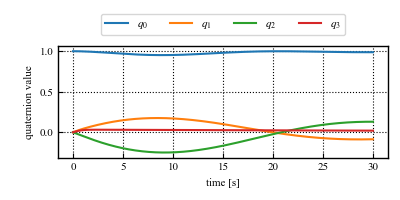
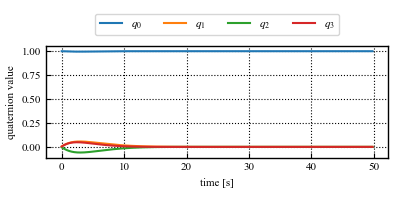
change reward

diff --git a/td3/train.py b/td3/train.py
@@ -103,22 +103,27 @@ def evaluate():
     actions = np.empty((0,3))
     param = np.empty((0,4))
 
-    dt = 0.01
-    simutime = 30
-    env.simutime = simutime
+    dt = 0.1
+    simutime = 50
+    # env.simutime = simutime
         
-    max_steps = int(simutime/dt) -1 # dt is 0.01
+    max_steps = int(simutime/dt) -1 # dt is 0.1
     alpha = 0.5
+    k_max = 5
+    alpha_max = 1
 
     th_e = np.array(env.inertia.flatten())
     with tqdm(range(max_steps),leave=False) as pbar:
         for i, ch in enumerate(pbar):
-            # if i==1 or i%100 ==0:
-            action = agent.get_action(state)
-            k = action[0]
-            D = np.diag([action[1],1,1,1,action[2],1,1,1,action[3]])
-            
-            W = state[-3:]
+            action = agent.get_action(state )
+            para_candi = (action + 1)/2
+            #----------------control law (Adaptive controller)-----------------------
+            k = 2.5#para_candi[0]*k_max
+            alpha = 0.8#para_candi[1]*alpha_max
+            d_tmp = [para_candi[i+2]*2500 +500 for i in range(len(para_candi)-2)]
+            D = np.diag([4e-4,1,1,1,5e-4,1,1,1,5.2e-4])#[1/d_tmp[0],1/d_tmp[1],1/d_tmp[2],1/d_tmp[3],1/d_tmp[4],1/d_tmp[5],1/d_tmp[6],1/d_tmp[7],1/d_tmp[8]])
+
+            W = state[8:11]
             x1 = state[1:4]
             x2 = alpha*x1 + W
             dqe = state[4:8]
@@ -129,6 +134,7 @@ def evaluate():
 
             dth = np.linalg.inv(D) @ Y.T @ x2
             th_e += env.dt*dth
+            env.est_th = [th_e[0],th_e[4],th_e[8]]/(env.max_multi*np.diag(env.inertia))
             next_error_state, reward, done, next_state, _ = env.step(input)
             # if i == 20/dt:
             #     env.inertia = env.inertia_comb
@@ -138,10 +144,10 @@ def evaluate():
             # env.render()        
             q=np.append(q,next_state[:4].reshape(1,-1),axis=0)
             qe=np.append(qe,next_error_state[:4].reshape(1,-1),axis=0)
-            w=np.append(w,next_error_state[-3:].reshape(1,-1),axis=0)
+            w=np.append(w,next_error_state[8:11].reshape(1,-1),axis=0)
             r += reward
             actions = np.append(actions, input.reshape(1,-1),axis=0)
-            param = np.append(param, action.reshape(1,-1),axis=0)
+            # param = np.append(param, action.reshape(1,-1),axis=0)
             state = next_error_state
 
     env.close()
@@ -242,29 +248,29 @@ def evaluate():
     plt.grid(True, color='k', linestyle='dotted', linewidth=0.8)
     # plt.savefig(curr_dir + "/results/td3_eval/plot_angle.png")
 
-    # plt.figure(figsize=(yoko,tate),dpi=100)
-    plt.subplot(234)
-    plt.plot(np.arange(max_steps)*dt, param[:,0],label = r"$\gain$")
-    plt.ylabel('k gain')
-    plt.xlabel(r'time [s]')
-    plt.tight_layout()
-    # plt.ylim(-20, 20)
-    plt.grid(True, color='k', linestyle='dotted', linewidth=0.8)
-    # plt.savefig(curr_dir + "/results/td3_eval/plot_k.png")
+    # # plt.figure(figsize=(yoko,tate),dpi=100)
+    # plt.subplot(234)
+    # plt.plot(np.arange(max_steps)*dt, param[:,0],label = r"$\gain$")
+    # plt.ylabel('k gain')
+    # plt.xlabel(r'time [s]')
+    # plt.tight_layout()
+    # # plt.ylim(-20, 20)
+    # plt.grid(True, color='k', linestyle='dotted', linewidth=0.8)
+    # # plt.savefig(curr_dir + "/results/td3_eval/plot_k.png")
 
-    # plt.figure(figsize=(yoko,tate),dpi=100)
-    plt.subplot(235)
-    plt.plot(np.arange(max_steps)*dt, parm[:,1],label = r"$D_{1}$")
-    plt.plot(np.arange(max_steps)*dt, param[:,2],label = r"$D_{2}$")
-    plt.plot(np.arange(max_steps)*dt, param[:,3],label = r"$D_{3}$")
-    # plt.title('Action')
-    plt.ylabel('d [deg]')
-    plt.xlabel(r'time [s]')
-    plt.legend(loc="lower center", bbox_to_anchor=(0.5,1.05), ncol=3)
-    plt.tight_layout()
-    # plt.ylim(-20, 20)
-    plt.grid(True, color='k', linestyle='dotted', linewidth=0.8)
-    # plt.savefig(curr_dir + "/results/td3_eval/plot_d.png")
+    # # # plt.figure(figsize=(yoko,tate),dpi=100)
+    # plt.subplot(235)
+    # plt.plot(np.arange(max_steps)*dt, parm[:,1],label = r"$D_{1}$")
+    # plt.plot(np.arange(max_steps)*dt, param[:,2],label = r"$D_{2}$")
+    # plt.plot(np.arange(max_steps)*dt, param[:,3],label = r"$D_{3}$")
+    # # plt.title('Action')
+    # plt.ylabel('d [deg]')
+    # plt.xlabel(r'time [s]')
+    # plt.legend(loc="lower center", bbox_to_anchor=(0.5,1.05), ncol=3)
+    # plt.tight_layout()
+    # # plt.ylim(-20, 20)
+    # plt.grid(True, color='k', linestyle='dotted', linewidth=0.8)
+    # # plt.savefig(curr_dir + "/results/td3_eval/plot_d.png")
     plt.savefig(curr_dir + "/results/td3_eval/results.png")
     plt.show()
     # -------------------------結果プロット終わり--------------------------------

diff --git a/td3/environment.py b/td3/environment.py
@@ -145,9 +145,9 @@ class SatelliteContinuousEnv(gym.Env):
         self.omega_count = 0
         
         #報酬パラメータ
-        self.q_weight =  1#1*20
-        self.w_weight = 1#1.5*100
-        self.action_weight = 1#0.25*10
+        self.q_weight =  1*5#1*20
+        self.w_weight = 1.5*10#1.5*100
+        self.action_weight = 0.25#0.25*10
         
         # 初期状態 角度(deg)　角速度(rad/s)
         # Rest to Rest
